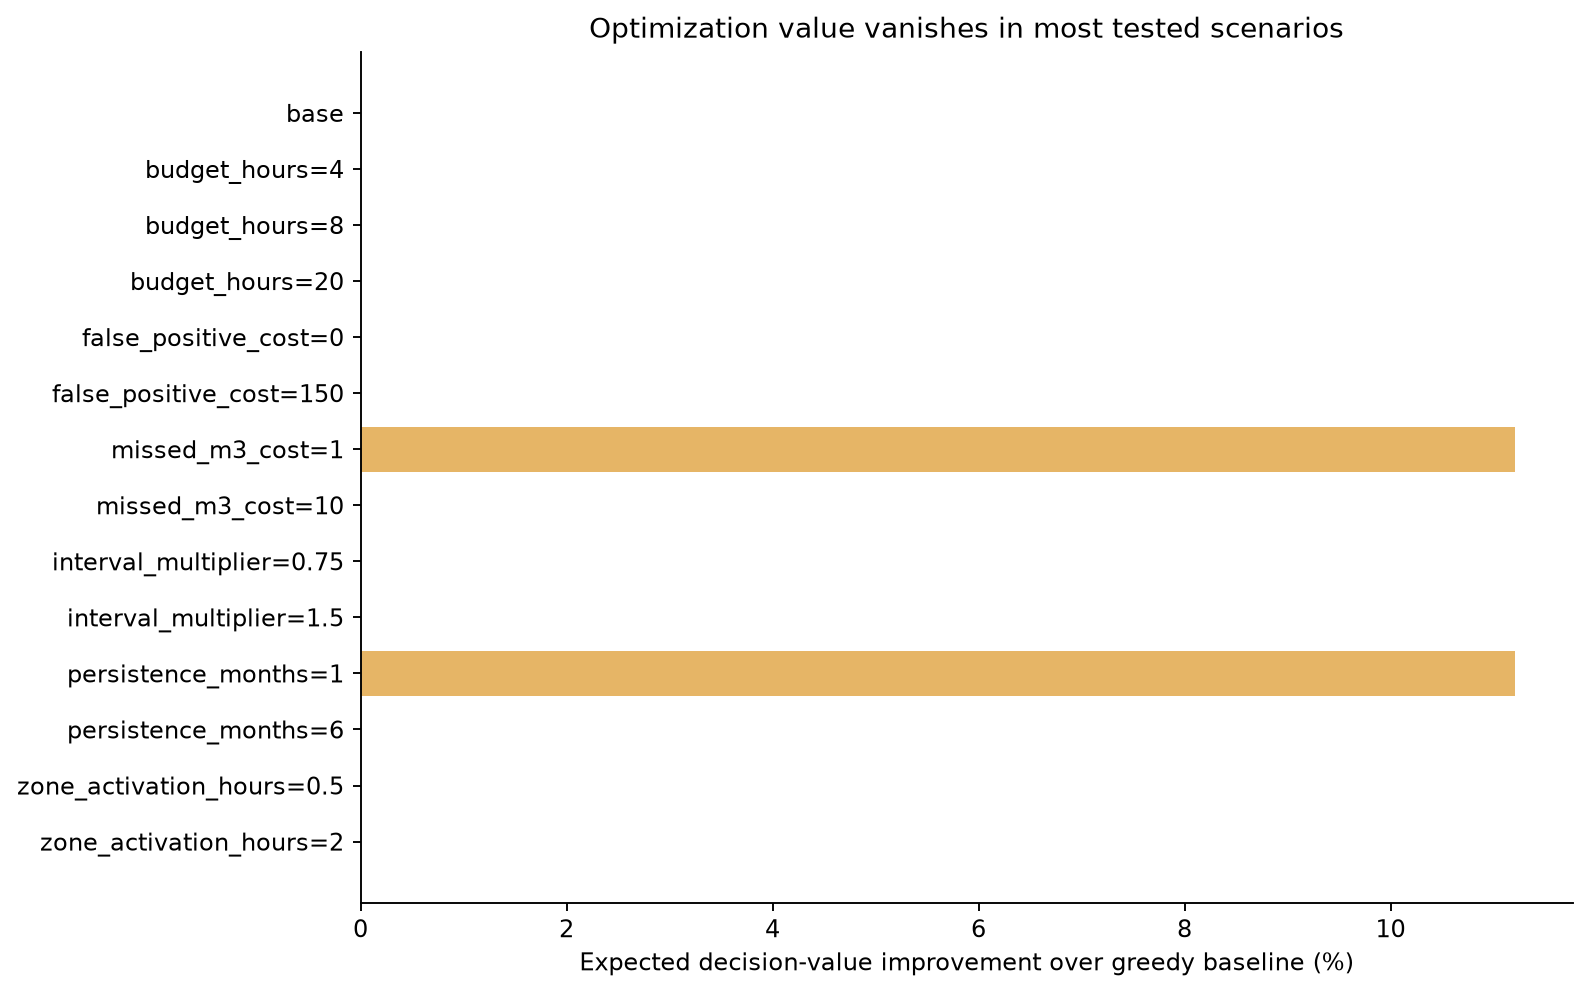
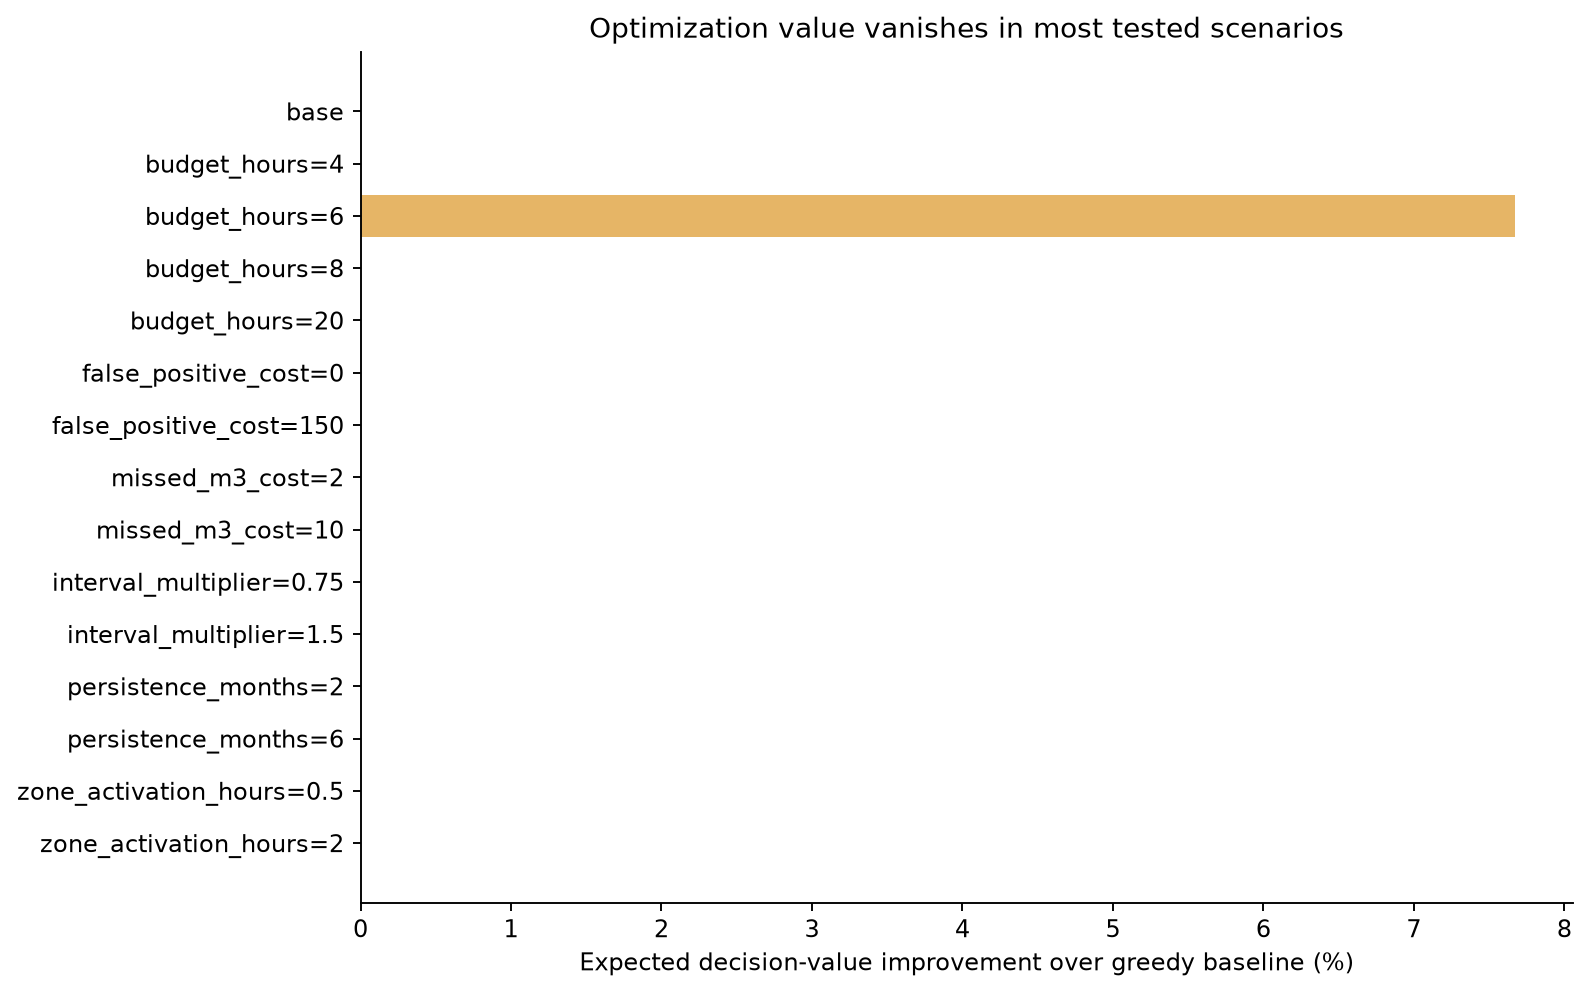
Stabilize optimization sensitivity scenario

diff --git a/src/helsinki_water/optimization.py b/src/helsinki_water/optimization.py
@@ -193,19 +193,19 @@ def sensitivity(
     base: DecisionAssumptions,
 ) -> list[dict[str, Any]]:
     scenarios: list[tuple[str, DecisionAssumptions]] = [("base", base)]
-    for value in (4.0, 8.0, 20.0):
+    for value in (4.0, 6.0, 8.0, 20.0):
         scenarios.append((f"budget_hours={value:g}", replace(base, budget_hours=value)))
     for value in (0.0, 150.0):
         scenarios.append(
             (f"false_positive_cost={value:g}", replace(base, false_positive_cost=value))
         )
-    for value in (1.0, 10.0):
+    for value in (2.0, 10.0):
         scenarios.append((f"missed_m3_cost={value:g}", replace(base, missed_m3_cost=value)))
     for value in (0.75, 1.5):
         scenarios.append(
             (f"interval_multiplier={value:g}", replace(base, interval_multiplier=value))
         )
-    for value in (1, 6):
+    for value in (2, 6):
         scenarios.append((f"persistence_months={value}", replace(base, persistence_months=value)))
     for value in (0.5, 2.0):
         scenarios.append(

diff --git a/README.md b/README.md
@@ -18,7 +18,7 @@ The scope is deliberately precise: this is municipal-property consumption, not t
 | 90% intervals | Property coverage **98.96%**, mean width **167.31 m³**; over-conservative, with h2–3 coverage 93.75% |
 | Difficult periods | High-demand MAE **43.07 m³** vs 22.83 otherwise; high-demand interval coverage 100%, but width rose to 199.73 m³ |
 | Anomaly layer | **3 statistical high-use signals**, 217.38 m³ total observed residual excess; zero confirmed-leak labels |
-| Optimization | Base: **0.00%** gain because all three candidates fit; best tested one-factor scenario: **11.21%** expected-value gain |
+| Optimization | Base: **0.00%** gain because all three candidates fit; at a binding 6-hour budget: **7.67%** expected-value gain |
 | Paper-to-code | First-half 2018 property MASE: reproduced SARIMA **0.708** vs ETS 0.785; SARIMA won 4/8 sites, ETS won 4/8 and the aggregate |
 
 Every number above is read from [`artifacts/v1.0.0/metrics.json`](artifacts/v1.0.0/metrics.json); underlying forecasts and decisions are committed as CSV.
@@ -57,7 +57,7 @@ confirmation_weight_i × excess_m3_i × persistence × missed_m3_cost
 
 CP-SAT maximizes the sum of selected values under a technician-hour budget, zone setup time, monthly capacity and per-site limits. Confirmation weights are declared scenario assumptions—not learned probabilities. The baseline simply takes highest standardized residual first.
 
-In the base case all three candidates fit in 8.13 of 12 available hours, so both policies are identical. At a lower missed-volume value (or one-month persistence), the optimizer rejects a negative-value inspection and improves assumed expected value by 11.21%, while capturing less raw excess. That is the correct trade-off under those assumptions, not evidence of realized savings.
+In the base case all three candidates fit in 8.13 of 12 available hours, so both policies are identical. With a binding 6-hour budget, greedy residual ranking chooses one central-zone inspection; CP-SAT instead bundles two east-zone inspections and improves assumed expected value by 7.67%, while covering 129.23 m³ rather than 88.15 m³ of observed excess. This is a measured routing/setup trade-off under declared assumptions, not evidence of realized savings.
 
 ![Optimization sensitivity](artifacts/v1.0.0/figures/optimization-sensitivity.png?v=20260830-helsinki-water-v1)
 

diff --git a/reports/scientific-report.md b/reports/scientific-report.md
@@ -128,16 +128,17 @@ With a 12-hour budget, all three candidates require 8.13 hours across two zones.
 | One-factor change | Candidates | Gain over baseline | Interpretation |
 |---|---:|---:|---|
 | Budget 4 / 8 / 20 h | 3 | 0% | Greedy ordering remains optimal |
+| Budget 6 h | 3 | **7.67%** | Zone setup makes two east reviews better than one central review |
 | False-positive cost 0 / 150 | 3 | 0% | Same decisions remain positive |
-| Missed-volume value 1 | 3 | **11.21%** | Optimizer excludes a negative-value review |
+| Missed-volume value 2 | 3 | 0% | All three reviews remain selected |
 | Missed-volume value 10 | 3 | 0% | All reviews become valuable |
 | Interval multiplier 0.75 | 5 | 0% | More signals; all fit and order agrees |
 | Interval multiplier 1.5 | 0 | 0% | Wider uncertainty suppresses all signals |
-| Persistence 1 month | 3 | **11.21%** | Same regime as low missed-volume value |
+| Persistence 2 months | 3 | 0% | Same decisions remain positive |
 | Persistence 6 months | 3 | 0% | All reviews become valuable |
 | Zone setup 0.5 / 2 h | 3 | 0% | No policy reversal |
 
-In the 11.21% scenario, optimized expected value is 122.99 versus 110.60, but it chooses only two candidates and covers 147.17 m³ rather than 217.38 m³. Optimization improves the declared objective, not every secondary measure. Its advantage disappears in most scenarios because the candidate set is small and constraints are usually non-binding.
+At six budget hours, optimized expected value is 509.91 versus 473.58. Greedy selection takes the highest standardized residual in the central zone and covers 88.15 m³; CP-SAT exploits shared east-zone activation, chooses two candidates and covers 129.23 m³. This produces a 7.67% objective gain. The advantage disappears at 4, 8, 12 and 20 hours and in the other tested one-factor scenarios because constraints are either too tight, non-binding or aligned with the greedy ordering.
 
 ## 10. Paper-to-code reproduction
 
